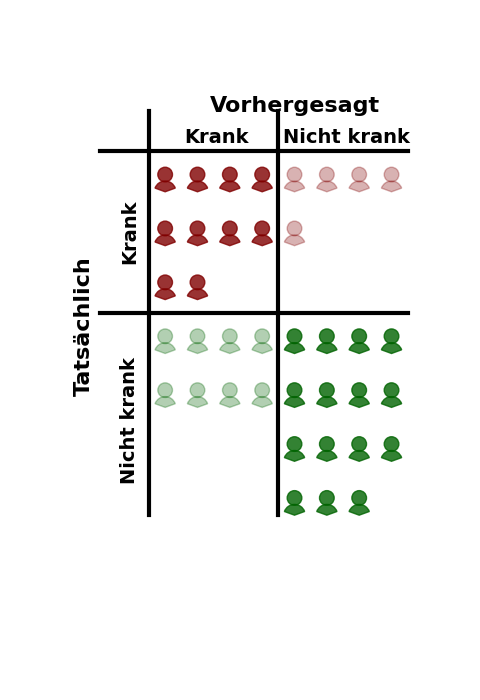
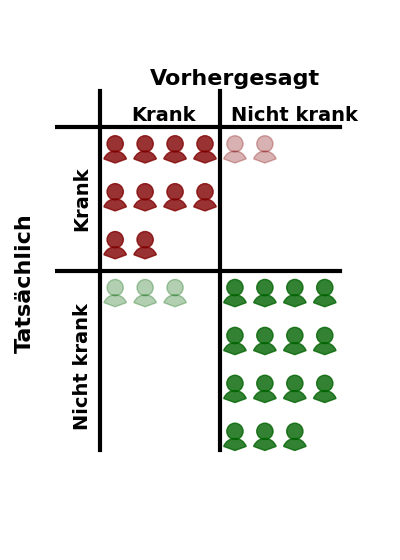
new pic

Changed region(s): [[0.15, 0.1214, 0.9, 0.8196], [0.03, 0.3643, 0.09, 0.6375]]

diff --git a/scripts/stats.py b/scripts/stats.py
@@ -227,8 +227,8 @@ if __name__ == "__main__":
     # Define the number of True Positives, True Negatives, False Positives, and False Negatives
     tp = 10
     tn = 15
-    fp = 5
-    fn = 8
+    fp = 2
+    fn = 3
     
     # Define the dimensions of the matrix
     left_cols = 4
@@ -237,7 +237,7 @@ if __name__ == "__main__":
     # Generate the color matrix based on the counts of TP, TN, FP, and FN
     colors = generate_colors(tp, tn, fp, fn, left_cols, right_cols)
     
-    spacing = (0.6, 1.0)
+    spacing = (0.5, 0.8)
 
     total_rows = len(colors)
     total_cols = max(len(row) for row in colors)
@@ -259,15 +259,15 @@ if __name__ == "__main__":
     ax.text(-1.5, total_rows * spacing[1] / 2, 'Tatsächlich', ha='center', va='center', fontsize=16, fontweight='bold', rotation=90)
 
     ax.text( 0.2 * total_cols * spacing[0] , total_rows * spacing[1] , 'Krank', ha='center', va='center', fontsize=14, fontweight='bold')
-    ax.text(0.7 * total_cols * spacing[0]  , total_rows * spacing[1] , 'Nicht krank', ha='center', va='center', fontsize=14, fontweight='bold')
+    ax.text(0.75 * total_cols * spacing[0]  , total_rows * spacing[1] , 'Nicht krank', ha='center', va='center', fontsize=14, fontweight='bold')
 
     ax.text( -1.1 * spacing[0]  , 0.75 * total_rows * spacing[1] , 'Krank', ha='center', va='center', fontsize=14, fontweight='bold', rotation=90)
     ax.text( -1.1 * spacing[0]  , 0.25 * total_rows * spacing[1] , 'Nicht krank', ha='center', va='center', fontsize=14, fontweight='bold', rotation=90)
 
     
     ax.set_aspect('equal', 'box')
-    ax.set_xlim(-3*spacing[0], total_cols * spacing[0])
-    ax.set_ylim(-2*spacing[1], (total_rows+1) * spacing[1])
+    ax.set_xlim(-2*spacing[0], total_cols * spacing[0])
+    ax.set_ylim(-1*spacing[1], (total_rows+1) * spacing[1])
     ax.axis('off')  # Hide axis
 
     plt.savefig( 'icon_matrix_small.png')
